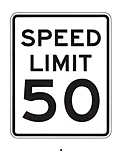
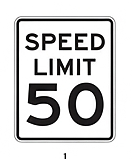
auto-commit for 8d4fd4a7-2ba9-4d0b-815d-e6bec7e6cd0b

diff --git a/scripts/crop_elp_signs_v3.py b/scripts/crop_elp_signs_v3.py
@@ -37,7 +37,7 @@ y_runs = runs(row_density > (W * 0.02), min_gap=15, min_len=40)
 # detected runs are sign rows. Keep them all.
 print(f"{len(y_runs)} sign rows detected (expected 6)")
 
-MARGIN = 12  # generous breathing room so no sign border ever clips
+MARGIN = 16  # extra-generous breathing room — no border ever clips
 sid = 1
 for ri, (y0, y1) in enumerate(y_runs):
     band = ink[y0:y1]
